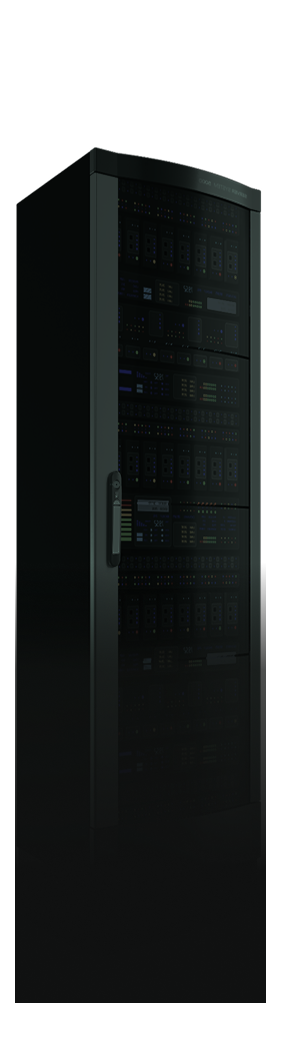
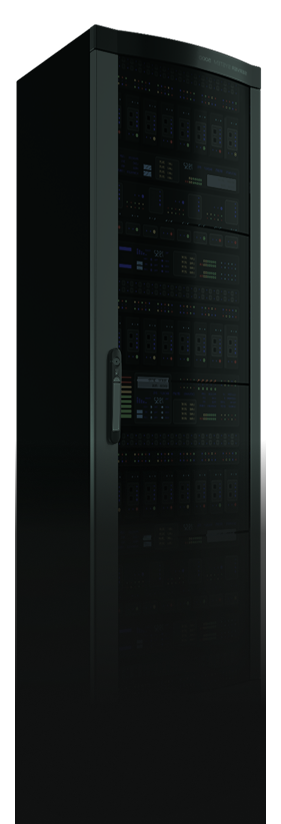
first page fully done

diff --git a/src/Components/HeroSection.module.css b/src/Components/HeroSection.module.css
@@ -1,14 +1,14 @@
 .parent {
   width: 100%;
   /* height: 900px; */
-  height: 100%;
   position: relative;
   overflow: hidden;
   display: flex;
   justify-content: center;
   align-items: center;
-  min-height: 1000px;
+  /* min-height: 1000px; */
   /* z-index: 0; */
+  padding-block: 75px;
 }
 
 .container {
@@ -17,9 +17,7 @@
   justify-content: space-between;
   align-items: center;
   width: 100%;
-  height: 100%;
   max-width: 1500px;
-  gap: 2rem;
 }
 
 .container1 {
@@ -27,21 +25,19 @@
   flex-direction: row;
   justify-content: center;
   align-items: center;
-  width: 60%;
-  height: 100%;
+  /* width: 70%; */
   gap: 1.5rem;
 }
 
 .serverDiv {
   width: 35%;
-  min-width: 240px;
+  min-width: 140px;
   z-index: 1;
 }
 
 .server {
   width: 100%;
-  height: 100%;
-}
+  }
 
 .textContainer {
   display: flex;
@@ -60,10 +56,10 @@
   background-position: center;
   background-repeat: no-repeat;
   background-size: contain;
-  width: 140%;
-  height: 100%;
-  top: 0;
-  left: -30%;
+  width: 120%;
+  height: 120%;
+  top: -20%;
+  left: -40%;
 }
 
 .hallow {
@@ -103,9 +99,9 @@
 
 .priceTag {
   max-width: 550px;
-  padding: 0.25rem 1rem;
-  border-radius: 5px;
-  background: rgba(0, 0, 0, 0.35);
+  padding: 0.75rem 1rem;
+  border-radius: 8px;
+  background: rgba(0, 0, 0, 0.432);
   color: var(--text);
   font-family: Poppins;
   font-size: 18px;
@@ -115,7 +111,7 @@
   line-height: 108%; /* 23.76px */
 }
 
-.price {
+.priceTag .price {
   font-weight: 600;
 }
 
@@ -179,15 +175,19 @@
   display: flex;
   justify-content: center;
   align-items: center;
-  /* width: 40%; */
   /* height: 540px; */
+  width: 100%;
+  flex: 1 1 180px;
+  height: 800px;
 }
+
 
 .corousel {
   display: flex;
   justify-content: center;
   align-items: center;
   width: 100%;
+  height: 100%;
 }
 
 .slide {
@@ -195,13 +195,51 @@
   justify-content: center;
   align-items: center;
   flex: 1 1 180px;
-  width: 100%;
-  padding: 2rem 3rem;
+  width: 100% !important;
+  /* width: 100%; */
+  /* height: 100%; */
+  padding-block: 2.5rem;
+  padding-inline: 2rem;
   border-radius: 28px;
   border: 1px solid rgba(255, 255, 255, 0.37);
-  /* background: url(<path-to-image>) lightgray -2.002px 0px / 131.961% 129.538% no-repeat; */
   box-shadow: 10px 14px 14.1px 0 rgba(0, 0, 0, 0.25);
   margin-block: 16px;
+  position: relative;
+}
+
+.slide0{
+  background: url('/mcraft.webp');
+  background-position: top;
+  background-repeat: no-repeat;
+  background-size: cover;
+}
+
+.slide1{
+  background: url('/fivem.webp');
+  background-position: top;
+  background-repeat: no-repeat;
+  background-size: cover;
+}
+
+.slide2{
+  background: url('/satisfactory.webp');
+  background-position: top;
+  background-repeat: no-repeat;
+  background-size: cover;
+}
+
+.slide3{
+  background: url('/mcraftb.webp');
+  background-position: top;
+  background-repeat: no-repeat;
+  background-size: cover;
+}
+
+.slide4{
+  background: url('/factorio.webp');
+  background-position: top;
+  background-repeat: no-repeat;
+  background-size: cover;
 }
 
 .title {
@@ -217,12 +255,13 @@
 .gameDesc {
   color: var(--text);
   font-family: Poppins;
-  font-size: 14px;
+  font-size: 16px;
   font-style: normal;
   font-weight: 300;
   line-height: 140%; /* 22.4px */
   letter-spacing: 0.16px;
   margin-bottom: 1rem;
+  max-width: 400px;
 }
 
 .high {
@@ -236,4 +275,68 @@
   font-style: normal;
   font-weight: 400;
   line-height: 108%;
+}
+
+
+@media  (max-width: 1622px) {
+
+  .parent{
+    padding-block: 2rem;
+  }
+
+  .atriox{
+    font-size: 200px;
+  }
+
+  .hosting{
+    font-size: 90px;
+  }
+  .serverDiv{
+    width: 28%;
+    min-width: 0px;
+  }
+
+  .textContainer::after {
+    width: 150%;
+    top: -200px;
+    height: 150%;
+  }
+
+  .desc{
+    font-size: 16px;
+  }
+
+  .hallow{
+    width: 500px;
+    height: 480px;
+  }
+
+  .title{
+    font-size: 24px;
+  }
+
+  .gameDesc{
+    font-size: 14px;
+    max-width: 300px;
+  }
+
+  .price{
+    font-size: 16px;
+  }
+
+  .slide{
+    margin-block: 12px;
+  }
+
+  .priceTag{
+    font-size: 14px;
+  }
+
+  .butt1{
+    font-size: 28px;
+  }
+  
+  .butt2{
+    font-size: 20px;
+  }
 }

diff --git a/src/Components/HeroSection.jsx b/src/Components/HeroSection.jsx
@@ -18,7 +18,8 @@ export default function HeroSection() {
     dots: false,
     speed: 1000,
     cssEase: "ease-in-out",
-    pauseOnFocus: true,
+    pauseOnFocus: false,
+    useCSS: true, 
   };
 
   const cards = [
@@ -27,18 +28,35 @@ export default function HeroSection() {
       high: "Unleash your creativity",
       desc: "and design epic worlds, create unique gameplay, and bring your community together.",
       price: "0.74",
+      url: "../..public/mcraft.png",
+    },
+    {
+      title: "FIVEM",
+      high: "Unleash your creativity",
+      desc: "and design epic worlds, create unique gameplay, and bring your community together.",
+      price: "1.74",
+      url: "../..public/mcraft.png",
     },
     {
       title: "Satisfactory",
       high: "Unleash your creativity",
       desc: "and design epic worlds, create unique gameplay, and bring your community together. ",
       price: "0.74",
+      url: "../..public/mcraft.png",
     },
     {
-      title: "FIVEM",
+      title: "Minecraft Bedrock",
       high: "Unleash your creativity",
       desc: "and design epic worlds, create unique gameplay, and bring your community together.",
       price: "0.74",
+      url: "../..public/mcraft.png",
+    },
+    {
+      title: "Factorio",
+      high: "Unleash your creativity",
+      desc: "and design epic worlds, create unique gameplay, and bring your community together.",
+      price: "0.74",
+      url: "../..public/mcraft.png",
     },
   ];
   return (
@@ -46,7 +64,7 @@ export default function HeroSection() {
       <div className={styles.container}>
         <div className={styles.container1}>
           <div className={styles.serverDiv}>
-            <img className={styles.server} src="/server.png" />
+            <img className={styles.server} src="/server.webp" />
           </div>
           <div className={styles.textContainer}>
             <div className={styles.hallow}></div>
@@ -80,17 +98,21 @@ export default function HeroSection() {
         </div>
 
         <div className={styles.container2}>
+          <div class="mask top-mask"></div>
+          <div class="mask bottom-mask"></div>
           <Slider className={styles.corousel} {...settings}>
             {cards.map((c, i) => (
-              <div key={i} className={styles.slide}>
+              <div key={i} className={`${styles.slide} ${styles[`slide${i}`]}`}>
                 <div className={styles.title}>{c.title}</div>
-                <div className={styles.gameDesc}><span className={styles.high}>{c.high}&nbsp;</span>{c.desc}</div>
+                <div className={styles.gameDesc}>
+                  <span className={styles.high}>{c.high}&nbsp;</span>
+                  {c.desc}
+                </div>
                 <div className={styles.price}>Starting at: {c.price}</div>
               </div>
             ))}
           </Slider>
         </div>
-        <div></div>
       </div>
     </div>
   );

diff --git a/src/index.css b/src/index.css
@@ -47,3 +47,23 @@ html {
   scrollbar-color: #1ae4b85e #0e0e0e;
   scrollbar-width: thin;
 }
+
+
+.slick-slide {
+  width: 100% !important;
+  display: flex !important;
+  flex-direction: column !important;
+  justify-content: center;
+  align-items: end !important;
+  transition: all 1.4s ease;
+}
+
+.slick-current + .slick-slide{
+  transform: translateX(-5%) scale(1.05);
+  /* margin-block: 16px; */
+}
+
+.slick-track, .slick-list{
+  width: 100%;
+}
+

diff --git a/src/Pages/HomePage.module.css b/src/Pages/HomePage.module.css
@@ -2,6 +2,7 @@
   width: 100%;
   height: 100%;
   max-width: 1800px;
+  padding-inline: 2rem;
   display: flex;
   flex-direction: column;
   justify-content: start;
@@ -32,3 +33,10 @@
   top: -200px;
   left: 10%;
 } */
+
+
+@media  (max-width: 1622px) {
+    .parent{
+        padding-inline: 7rem;
+    }
+}
